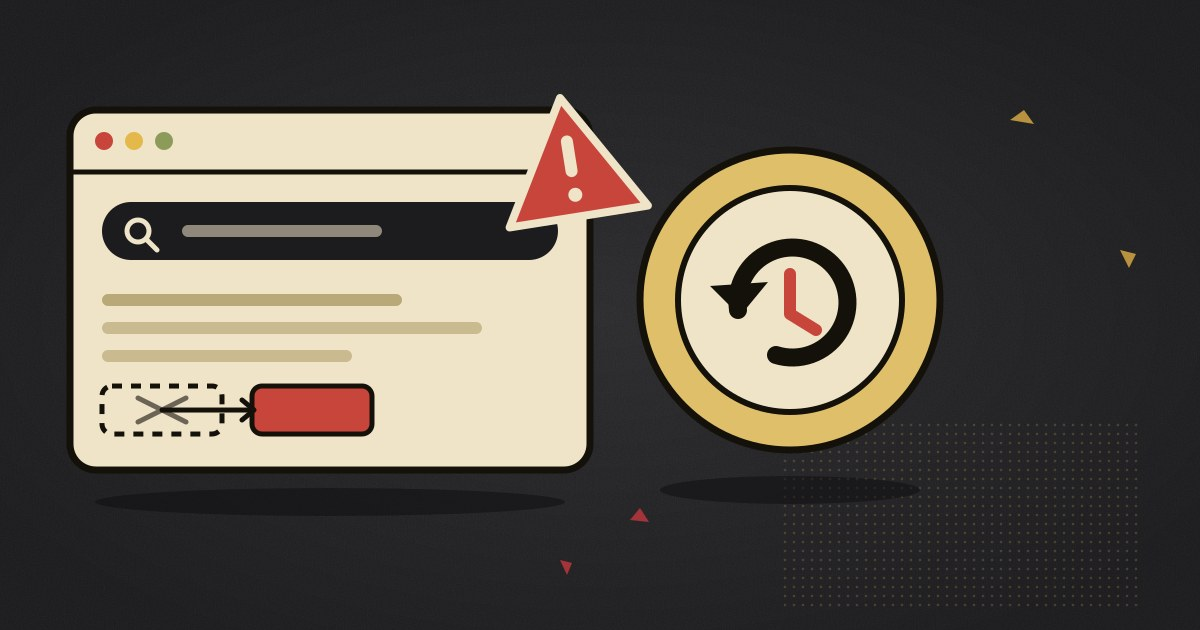
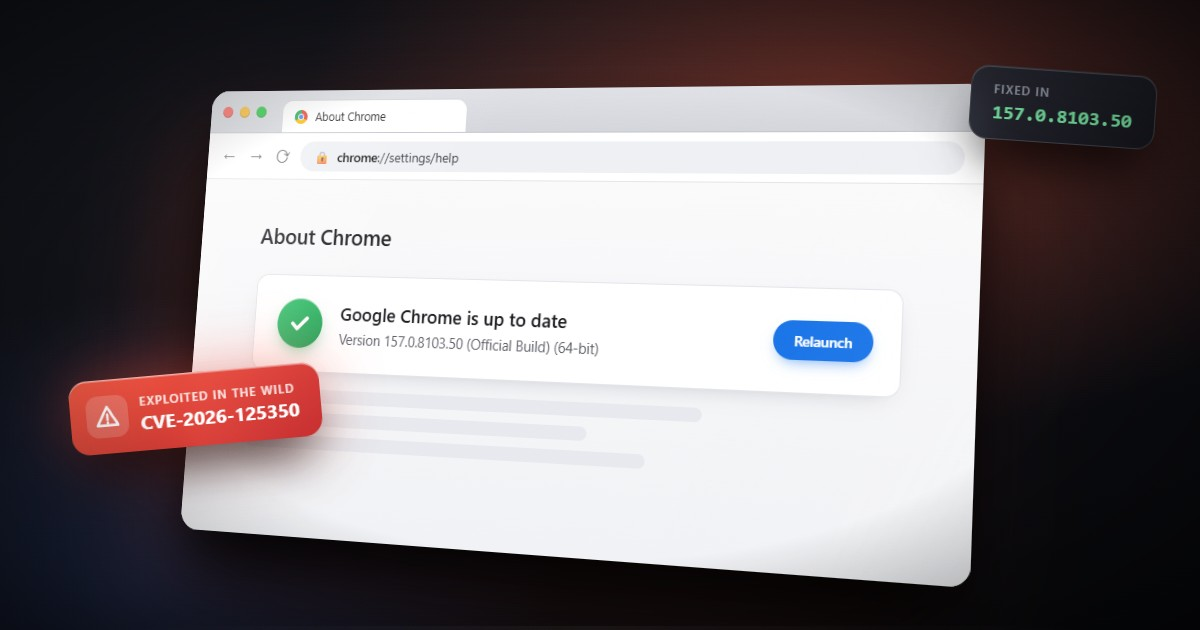
Blog: premium Load more button with progress, realistic thumbnail for the Chrome zero-day article

diff --git a/blog/index.html b/blog/index.html
@@ -11,7 +11,7 @@
 <meta property="og:type" content="website"><meta property="og:site_name" content="Rapid+ Blog">
 <meta property="og:title" content="Rapid+ Blog: Browser Privacy, Speed and How the Web Works"><meta property="og:description" content="Researched guides on proxies and VPNs, browser fingerprinting, user agents, profiles, ad blocking and security news from the team behind Rapid+ Browser.">
 <meta property="og:url" content="https://rapidplusbrowser.online/blog/"><meta property="og:image" content="https://rapidplusbrowser.online/assets/blog/chrome-zero-day-cve-2026-125350.jpg">
-<meta property="og:image:width" content="1200"><meta property="og:image:height" content="630"><meta property="og:image:alt" content="Illustration of a browser window with a broken memory link, a red warning triangle and a gold coin with a circular clock arrow on a dark background">
+<meta property="og:image:width" content="1200"><meta property="og:image:height" content="630"><meta property="og:image:alt" content="A browser window showing the About Chrome page at version 157.0.8103.50, with a red warning label for CVE-2026-125350 and a Fixed in label">
 <meta name="twitter:card" content="summary_large_image"><meta name="twitter:title" content="Rapid+ Blog: Browser Privacy, Speed and How the Web Works"><meta name="twitter:description" content="Researched guides on proxies and VPNs, browser fingerprinting, user agents, profiles, ad blocking and security news from the team behind Rapid+ Browser.">
 <meta name="robots" content="index, follow, max-image-preview:large">
 <script type="application/ld+json">{"@context":"https://schema.org","@type":"Blog","name":"Rapid+ Blog","url":"https://rapidplusbrowser.online/blog/","publisher":{"@type":"Organization","name":"HM Dev Studio","url":"https://rapidplusbrowser.online/","logo":{"@type":"ImageObject","url":"https://rapidplusbrowser.online/assets/logo.png"}},"blogPost":[{"@type":"BlogPosting","headline":"Chrome Patches Its Eighth Exploited Zero-Day of 2026: What to Do","url":"https://rapidplusbrowser.online/blog/chrome-zero-day-cve-2026-125350"},{"@type":"BlogPosting","headline":"Chrome Now Asks Before Opening Plain HTTP Sites: What Changed and What to Do","url":"https://rapidplusbrowser.online/blog/chrome-https-by-default"},{"@type":"BlogPosting","headline":"Chrome Extensions Hijacked Search for 13.4 Million Users: What Happened and How to Check Your Browser","url":"https://rapidplusbrowser.online/blog/chrome-extensions-search-hijacking"},{"@type":"BlogPosting","headline":"How Wars Cut the Internet: What Iran and Russia Show, and What Actually Helps","url":"https://rapidplusbrowser.online/blog/internet-shutdowns-in-war"},{"@type":"BlogPosting","headline":"The Binance Hack: What Happened, What Was Lost, and What It Means for You","url":"https://rapidplusbrowser.online/blog/binance-hack"},{"@type":"BlogPosting","headline":"Browser Fingerprinting: How Websites Recognize You Without Cookies","url":"https://rapidplusbrowser.online/blog/browser-fingerprinting"},{"@type":"BlogPosting","headline":"Do Ad Blockers Make Pages Load Faster? What the Measurements Show","url":"https://rapidplusbrowser.online/blog/ad-blocking-speed"},{"@type":"BlogPosting","headline":"Proxy vs VPN: What Each One Actually Hides","url":"https://rapidplusbrowser.online/blog/proxy-vs-vpn"},{"@type":"BlogPosting","headline":"Separate Browser Profiles for Work, Personal and Shopping: Why They Work","url":"https://rapidplusbrowser.online/blog/browser-profiles"},{"@type":"BlogPosting","headline":"What Is a User Agent String, and Why Do Websites Care?","url":"https://rapidplusbrowser.online/blog/user-agent-string"}]}</script>
@@ -63,9 +63,9 @@
 </div></section>
 <section class="bloglist"><div class="wrap homegrid">
   <div class="homemain">
-    <a class="feature-post" data-slug="chrome-zero-day-cve-2026-125350" href="/blog/chrome-zero-day-cve-2026-125350"><div class="thumb"><img src="/assets/blog/chrome-zero-day-cve-2026-125350.jpg" width="1200" height="630" alt="Illustration of a browser window with a broken memory link, a red warning triangle and a gold coin with a circular clock arrow on a dark background" fetchpriority="high"></div><div class="txt"><span class="chip">Security</span><h2>Chrome Patches Its Eighth Exploited Zero-Day of 2026: What to Do</h2><p>Google fixed an actively exploited bug in Chrome's XML component on 9 November. Here is what is known, what is not, and how to check that your browser has the fix.</p><div class="postmeta"><span>18 Nov 2026</span><span class="dot">·</span><span>9 min read</span></div></div></a>
+    <a class="feature-post" data-slug="chrome-zero-day-cve-2026-125350" href="/blog/chrome-zero-day-cve-2026-125350"><div class="thumb"><img src="/assets/blog/chrome-zero-day-cve-2026-125350.jpg" width="1200" height="630" alt="A browser window showing the About Chrome page at version 157.0.8103.50, with a red warning label for CVE-2026-125350 and a Fixed in label" fetchpriority="high"></div><div class="txt"><span class="chip">Security</span><h2>Chrome Patches Its Eighth Exploited Zero-Day of 2026: What to Do</h2><p>Google fixed an actively exploited bug in Chrome's XML component on 9 November. Here is what is known, what is not, and how to check that your browser has the fix.</p><div class="postmeta"><span>18 Nov 2026</span><span class="dot">·</span><span>9 min read</span></div></div></a>
     <h2 class="listh">More articles</h2>
-    <div class="plist" id="list"><div class="pitem" data-slug="chrome-https-by-default"><a class="pthumb" href="/blog/chrome-https-by-default" tabindex="-1" aria-hidden="true"><img src="/assets/blog/chrome-https-by-default.jpg" width="1200" height="630" alt="" loading="lazy"></a><div class="ptxt"><a class="chip" href="/blog/category/how-the-web-works">How the web works</a><h3><a href="/blog/chrome-https-by-default">Chrome Now Asks Before Opening Plain HTTP Sites: What Changed and What to Do</a></h3><p>Since Chrome 154, a public website without HTTPS triggers a warning before it loads. Here is what the new default covers, what it leaves out, and how it ties in with shorter certificate lifetimes.</p><div class="postmeta"><span>8 Nov 2026</span><span class="dot">·</span><span>11 min read</span></div></div></div><div class="pitem" data-slug="chrome-extensions-search-hijacking"><a class="pthumb" href="/blog/chrome-extensions-search-hijacking" tabindex="-1" aria-hidden="true"><img src="/assets/blog/chrome-extensions-search-hijacking.jpg" width="1200" height="630" alt="" loading="lazy"></a><div class="ptxt"><a class="chip" href="/blog/category/security">Security</a><h3><a href="/blog/chrome-extensions-search-hijacking">Chrome Extensions Hijacked Search for 13.4 Million Users: What Happened and How to Check Your Browser</a></h3><p>Security researchers found 319 extensions that quietly changed the default search engine and sent every query through the operator's servers. What is confirmed, what is not, and a two-minute check.</p><div class="postmeta"><span>5 Nov 2026</span><span class="dot">·</span><span>8 min read</span></div></div></div><div class="pitem" data-slug="internet-shutdowns-in-war"><a class="pthumb" href="/blog/internet-shutdowns-in-war" tabindex="-1" aria-hidden="true"><img src="/assets/blog/internet-shutdowns-in-war.jpg" width="1200" height="630" alt="" loading="lazy"></a><div class="ptxt"><a class="chip" href="/blog/category/privacy">Privacy</a><h3><a href="/blog/internet-shutdowns-in-war">How Wars Cut the Internet: What Iran and Russia Show, and What Actually Helps</a></h3><p>Iran spent 88 days almost fully offline and Russia switches off mobile internet region by region. Here is what happened, what a VPN can and cannot do, and what you can prepare.</p><div class="postmeta"><span>4 Nov 2026</span><span class="dot">·</span><span>11 min read</span></div></div></div><div class="pitem" data-slug="binance-hack"><a class="pthumb" href="/blog/binance-hack" tabindex="-1" aria-hidden="true"><img src="/assets/blog/binance-hack.jpg" width="1200" height="630" alt="" loading="lazy"></a><div class="ptxt"><a class="chip" href="/blog/category/security">Security</a><h3><a href="/blog/binance-hack">The Binance Hack: What Happened, What Was Lost, and What It Means for You</a></h3><p>Binance says about $6.3 billion was taken, the largest crypto theft on record. Here is what is confirmed, what is only reported, and what nobody knows yet.</p><div class="postmeta"><span>1 Nov 2026</span><span class="dot">·</span><span>14 min read</span></div></div></div><div class="pitem" data-slug="browser-fingerprinting"><a class="pthumb" href="/blog/browser-fingerprinting" tabindex="-1" aria-hidden="true"><img src="/assets/blog/browser-fingerprinting.jpg" width="1200" height="630" alt="" loading="lazy"></a><div class="ptxt"><a class="chip" href="/blog/category/privacy">Privacy</a><h3><a href="/blog/browser-fingerprinting">Browser Fingerprinting: How Websites Recognize You Without Cookies</a></h3><p>Nothing is stored on your device, so there is nothing to clear. Here is what fingerprinting measures, how well it works in practice, and what helps.</p><div class="postmeta"><span>30 Oct 2026</span><span class="dot">·</span><span>8 min read</span></div></div></div><div class="pitem" data-slug="ad-blocking-speed"><a class="pthumb" href="/blog/ad-blocking-speed" tabindex="-1" aria-hidden="true"><img src="/assets/blog/ad-blocking-speed.jpg" width="1200" height="630" alt="" loading="lazy"></a><div class="ptxt"><a class="chip" href="/blog/category/performance">Performance</a><h3><a href="/blog/ad-blocking-speed">Do Ad Blockers Make Pages Load Faster? What the Measurements Show</a></h3><p>Ads and trackers are a big share of what many pages download. What researchers measured, how blocking works, and what it costs.</p><div class="postmeta"><span>30 Oct 2026</span><span class="dot">·</span><span>8 min read</span></div></div></div><div class="pitem" data-slug="proxy-vs-vpn"><a class="pthumb" href="/blog/proxy-vs-vpn" tabindex="-1" aria-hidden="true"><img src="/assets/blog/proxy-vs-vpn.jpg" width="1200" height="630" alt="" loading="lazy"></a><div class="ptxt"><a class="chip" href="/blog/category/privacy">Privacy</a><h3><a href="/blog/proxy-vs-vpn">Proxy vs VPN: What Each One Actually Hides</a></h3><p>Both put another server between you and the web. They cover different traffic, protect it differently, and hide different things from different people.</p><div class="postmeta"><span>30 Oct 2026</span><span class="dot">·</span><span>10 min read</span></div></div></div><div class="pitem" data-slug="browser-profiles"><a class="pthumb" href="/blog/browser-profiles" tabindex="-1" aria-hidden="true"><img src="/assets/blog/browser-profiles.jpg" width="1200" height="630" alt="" loading="lazy"></a><div class="ptxt"><a class="chip" href="/blog/category/productivity">Productivity</a><h3><a href="/blog/browser-profiles">Separate Browser Profiles for Work, Personal and Shopping: Why They Work</a></h3><p>One browser, several separate lives. How profiles keep logins and cookies apart, what they do not protect, and how to set them up well.</p><div class="postmeta"><span>30 Oct 2026</span><span class="dot">·</span><span>8 min read</span></div></div></div><div class="pitem" data-slug="user-agent-string" hidden data-extra><a class="pthumb" href="/blog/user-agent-string" tabindex="-1" aria-hidden="true"><img src="/assets/blog/user-agent-string.jpg" width="1200" height="630" alt="" loading="lazy"></a><div class="ptxt"><a class="chip" href="/blog/category/how-the-web-works">How the web works</a><h3><a href="/blog/user-agent-string">What Is a User Agent String, and Why Do Websites Care?</a></h3><p>Your browser names five other browsers every time it loads a page. The reason is thirty years of browsers pretending to be each other.</p><div class="postmeta"><span>30 Oct 2026</span><span class="dot">·</span><span>8 min read</span></div></div></div></div><p class="more"><button type="button" class="sbtn loadmore" data-more>Load more articles</button></p>
+    <div class="plist" id="list"><div class="pitem" data-slug="chrome-https-by-default"><a class="pthumb" href="/blog/chrome-https-by-default" tabindex="-1" aria-hidden="true"><img src="/assets/blog/chrome-https-by-default.jpg" width="1200" height="630" alt="" loading="lazy"></a><div class="ptxt"><a class="chip" href="/blog/category/how-the-web-works">How the web works</a><h3><a href="/blog/chrome-https-by-default">Chrome Now Asks Before Opening Plain HTTP Sites: What Changed and What to Do</a></h3><p>Since Chrome 154, a public website without HTTPS triggers a warning before it loads. Here is what the new default covers, what it leaves out, and how it ties in with shorter certificate lifetimes.</p><div class="postmeta"><span>8 Nov 2026</span><span class="dot">·</span><span>11 min read</span></div></div></div><div class="pitem" data-slug="chrome-extensions-search-hijacking"><a class="pthumb" href="/blog/chrome-extensions-search-hijacking" tabindex="-1" aria-hidden="true"><img src="/assets/blog/chrome-extensions-search-hijacking.jpg" width="1200" height="630" alt="" loading="lazy"></a><div class="ptxt"><a class="chip" href="/blog/category/security">Security</a><h3><a href="/blog/chrome-extensions-search-hijacking">Chrome Extensions Hijacked Search for 13.4 Million Users: What Happened and How to Check Your Browser</a></h3><p>Security researchers found 319 extensions that quietly changed the default search engine and sent every query through the operator's servers. What is confirmed, what is not, and a two-minute check.</p><div class="postmeta"><span>5 Nov 2026</span><span class="dot">·</span><span>8 min read</span></div></div></div><div class="pitem" data-slug="internet-shutdowns-in-war"><a class="pthumb" href="/blog/internet-shutdowns-in-war" tabindex="-1" aria-hidden="true"><img src="/assets/blog/internet-shutdowns-in-war.jpg" width="1200" height="630" alt="" loading="lazy"></a><div class="ptxt"><a class="chip" href="/blog/category/privacy">Privacy</a><h3><a href="/blog/internet-shutdowns-in-war">How Wars Cut the Internet: What Iran and Russia Show, and What Actually Helps</a></h3><p>Iran spent 88 days almost fully offline and Russia switches off mobile internet region by region. Here is what happened, what a VPN can and cannot do, and what you can prepare.</p><div class="postmeta"><span>4 Nov 2026</span><span class="dot">·</span><span>11 min read</span></div></div></div><div class="pitem" data-slug="binance-hack"><a class="pthumb" href="/blog/binance-hack" tabindex="-1" aria-hidden="true"><img src="/assets/blog/binance-hack.jpg" width="1200" height="630" alt="" loading="lazy"></a><div class="ptxt"><a class="chip" href="/blog/category/security">Security</a><h3><a href="/blog/binance-hack">The Binance Hack: What Happened, What Was Lost, and What It Means for You</a></h3><p>Binance says about $6.3 billion was taken, the largest crypto theft on record. Here is what is confirmed, what is only reported, and what nobody knows yet.</p><div class="postmeta"><span>1 Nov 2026</span><span class="dot">·</span><span>14 min read</span></div></div></div><div class="pitem" data-slug="browser-fingerprinting"><a class="pthumb" href="/blog/browser-fingerprinting" tabindex="-1" aria-hidden="true"><img src="/assets/blog/browser-fingerprinting.jpg" width="1200" height="630" alt="" loading="lazy"></a><div class="ptxt"><a class="chip" href="/blog/category/privacy">Privacy</a><h3><a href="/blog/browser-fingerprinting">Browser Fingerprinting: How Websites Recognize You Without Cookies</a></h3><p>Nothing is stored on your device, so there is nothing to clear. Here is what fingerprinting measures, how well it works in practice, and what helps.</p><div class="postmeta"><span>30 Oct 2026</span><span class="dot">·</span><span>8 min read</span></div></div></div><div class="pitem" data-slug="ad-blocking-speed"><a class="pthumb" href="/blog/ad-blocking-speed" tabindex="-1" aria-hidden="true"><img src="/assets/blog/ad-blocking-speed.jpg" width="1200" height="630" alt="" loading="lazy"></a><div class="ptxt"><a class="chip" href="/blog/category/performance">Performance</a><h3><a href="/blog/ad-blocking-speed">Do Ad Blockers Make Pages Load Faster? What the Measurements Show</a></h3><p>Ads and trackers are a big share of what many pages download. What researchers measured, how blocking works, and what it costs.</p><div class="postmeta"><span>30 Oct 2026</span><span class="dot">·</span><span>8 min read</span></div></div></div><div class="pitem" data-slug="proxy-vs-vpn"><a class="pthumb" href="/blog/proxy-vs-vpn" tabindex="-1" aria-hidden="true"><img src="/assets/blog/proxy-vs-vpn.jpg" width="1200" height="630" alt="" loading="lazy"></a><div class="ptxt"><a class="chip" href="/blog/category/privacy">Privacy</a><h3><a href="/blog/proxy-vs-vpn">Proxy vs VPN: What Each One Actually Hides</a></h3><p>Both put another server between you and the web. They cover different traffic, protect it differently, and hide different things from different people.</p><div class="postmeta"><span>30 Oct 2026</span><span class="dot">·</span><span>10 min read</span></div></div></div><div class="pitem" data-slug="browser-profiles"><a class="pthumb" href="/blog/browser-profiles" tabindex="-1" aria-hidden="true"><img src="/assets/blog/browser-profiles.jpg" width="1200" height="630" alt="" loading="lazy"></a><div class="ptxt"><a class="chip" href="/blog/category/productivity">Productivity</a><h3><a href="/blog/browser-profiles">Separate Browser Profiles for Work, Personal and Shopping: Why They Work</a></h3><p>One browser, several separate lives. How profiles keep logins and cookies apart, what they do not protect, and how to set them up well.</p><div class="postmeta"><span>30 Oct 2026</span><span class="dot">·</span><span>8 min read</span></div></div></div><div class="pitem" data-slug="user-agent-string" hidden data-extra><a class="pthumb" href="/blog/user-agent-string" tabindex="-1" aria-hidden="true"><img src="/assets/blog/user-agent-string.jpg" width="1200" height="630" alt="" loading="lazy"></a><div class="ptxt"><a class="chip" href="/blog/category/how-the-web-works">How the web works</a><h3><a href="/blog/user-agent-string">What Is a User Agent String, and Why Do Websites Care?</a></h3><p>Your browser names five other browsers every time it loads a page. The reason is thirty years of browsers pretending to be each other.</p><div class="postmeta"><span>30 Oct 2026</span><span class="dot">·</span><span>8 min read</span></div></div></div></div><div class="more" data-total="9"><div class="more-bar" aria-hidden="true"><i style="width:89%"></i></div><p class="more-count" data-count>Showing 8 of 9 articles</p><button type="button" class="loadmore" data-more><span>Load more articles</span><svg viewBox="0 0 24 24" aria-hidden="true"><path d="M6 9l6 6 6-6"/></svg></button></div>
   </div>
   <aside class="side" aria-label="Sidebar">
   <form class="side-search" action="/blog/search" method="get" role="search"><input type="search" name="q" placeholder="Search articles…" aria-label="Search articles" autocomplete="off"><button type="submit" aria-label="Search"><svg viewBox="0 0 24 24" aria-hidden="true"><circle cx="11" cy="11" r="6.5"/><path d="m20 20-4.2-4.2"/></svg></button></form>

diff --git a/blog/chrome-zero-day-cve-2026-125350.html b/blog/chrome-zero-day-cve-2026-125350.html
@@ -11,7 +11,7 @@
 <meta property="og:type" content="article"><meta property="og:site_name" content="Rapid+ Blog">
 <meta property="og:title" content="Chrome Zero-Day Under Attack: What to Do | Rapid+ Blog"><meta property="og:description" content="Chrome 157.0.8103.50 fixes CVE-2026-125350, an exploited use-after-free bug. What was announced, what Google has not said, and how to update Chrome and others.">
 <meta property="og:url" content="https://rapidplusbrowser.online/blog/chrome-zero-day-cve-2026-125350"><meta property="og:image" content="https://rapidplusbrowser.online/assets/blog/chrome-zero-day-cve-2026-125350.jpg">
-<meta property="og:image:width" content="1200"><meta property="og:image:height" content="630"><meta property="og:image:alt" content="Illustration of a browser window with a broken memory link, a red warning triangle and a gold coin with a circular clock arrow on a dark background"><meta property="og:locale" content="en_US">
+<meta property="og:image:width" content="1200"><meta property="og:image:height" content="630"><meta property="og:image:alt" content="A browser window showing the About Chrome page at version 157.0.8103.50, with a red warning label for CVE-2026-125350 and a Fixed in label"><meta property="og:locale" content="en_US">
 <meta property="article:published_time" content="2026-11-18"><meta property="article:section" content="Security">
 <meta name="twitter:card" content="summary_large_image"><meta name="twitter:title" content="Chrome Zero-Day Under Attack: What to Do | Rapid+ Blog"><meta name="twitter:description" content="Chrome 157.0.8103.50 fixes CVE-2026-125350, an exploited use-after-free bug. What was announced, what Google has not said, and how to update Chrome and others."><meta name="twitter:image" content="https://rapidplusbrowser.online/assets/blog/chrome-zero-day-cve-2026-125350.jpg">
 <meta name="robots" content="index, follow, max-image-preview:large">
@@ -66,7 +66,7 @@
   <p class="dek">Google fixed an actively exploited bug in Chrome's XML component on 9 November. Here is what is known, what is not, and how to check that your browser has the fix.</p>
   <div class="byline"><img src="/assets/logo.png" alt=""><div><span><b>Rapid+ Team</b> · 18 Nov 2026 · 9 min read</span></div></div>
 </header>
-<figure class="post-hero"><img src="/assets/blog/chrome-zero-day-cve-2026-125350.jpg" width="1200" height="630" alt="Illustration of a browser window with a broken memory link, a red warning triangle and a gold coin with a circular clock arrow on a dark background" fetchpriority="high"></figure>
+<figure class="post-hero"><img src="/assets/blog/chrome-zero-day-cve-2026-125350.jpg" width="1200" height="630" alt="A browser window showing the About Chrome page at version 157.0.8103.50, with a red warning label for CVE-2026-125350 and a Fixed in label" fetchpriority="high"></figure>
 <div class="post-layout">
   <nav class="post-toc" aria-label="On this page"><h4>On this page</h4><a href="#short-version">The short version</a><a href="#what-was-announced">What was announced</a><a href="#zero-day">What "zero-day" means here</a><a href="#use-after-free">What a use-after-free is</a><a href="#withheld">Why so little detail</a><a href="#check">How to check and update</a><a href="#other-programs">Other programs that contain Chrome's engine</a><a href="#takeaways">What to do today</a><a href="#faq">FAQ</a><a href="#sources">Sources</a></nav>
   <div class="prose">

diff --git a/tools/build-blog.js b/tools/build-blog.js
@@ -129,7 +129,7 @@ const meta = p => `<div class="postmeta"><span>${esc(p.date)}</span><span class=
 const featured = p => `<a class="feature-post" data-slug="${p.slug}" href="/blog/${p.slug}"><div class="thumb"><img src="/assets/blog/${p.slug}.jpg" width="1200" height="630" alt="${p.alt}" fetchpriority="high"></div><div class="txt"><span class="chip">${esc(p.cat)}</span><h2>${esc(p.title)}</h2><p>${esc(p.desc)}</p>${meta(p)}</div></a>`;
 const item = (p, hidden) => `<div class="pitem" data-slug="${p.slug}"${hidden ? ' hidden data-extra' : ''}><a class="pthumb" href="/blog/${p.slug}" tabindex="-1" aria-hidden="true"><img src="/assets/blog/${p.slug}.jpg" width="1200" height="630" alt="" loading="lazy"></a><div class="ptxt"><a class="chip" href="/blog/category/${p.cs}">${esc(p.cat)}</a><h3><a href="/blog/${p.slug}">${esc(p.title)}</a></h3><p>${esc(p.desc)}</p>${meta(p)}</div></div>`;
 const PAGE = 8;
-const list = items => `<div class="plist" id="list">${items.map((p, i) => item(p, i >= PAGE)).join('')}</div>${items.length > PAGE ? '<p class="more"><button type="button" class="sbtn loadmore" data-more>Load more articles</button></p>' : ''}`;
+const list = items => `<div class="plist" id="list">${items.map((p, i) => item(p, i >= PAGE)).join('')}</div>${items.length > PAGE ? `<div class="more" data-total="${items.length}"><div class="more-bar" aria-hidden="true"><i style="width:${Math.round(PAGE / items.length * 100)}%"></i></div><p class="more-count" data-count>Showing ${PAGE} of ${items.length} articles</p><button type="button" class="loadmore" data-more><span>Load more articles</span><svg viewBox="0 0 24 24" aria-hidden="true"><path d="M6 9l6 6 6-6"/></svg></button></div>` : ''}`;
 const side = current => `<aside class="side" aria-label="Sidebar">
   <form class="side-search" action="/blog/search" method="get" role="search"><input type="search" name="q" placeholder="Search articles…" aria-label="Search articles" autocomplete="off"><button type="submit" aria-label="Search">${I_SEARCH}</button></form>
   <section class="side-card"><h3>Categories</h3><ul class="side-cats">${usedCats.map(([l, s]) => `<li><a href="/blog/category/${s}"${current === s ? ' class="on"' : ''}>${l}<i>${count(s)}</i></a></li>`).join('')}</ul></section>

diff --git a/blog.css b/blog.css
@@ -330,7 +330,17 @@ body.noscroll{overflow:hidden}
 .ptxt h3 a:hover{color:var(--accent);text-decoration:none}
 .ptxt p{margin:0 0 10px;color:var(--muted);font-size:15px;line-height:1.55;overflow-wrap:anywhere}
 .ptxt mark,.bsearch-res mark{background:color-mix(in srgb,var(--accent) 24%,transparent);color:inherit;border-radius:3px;padding:0 1px}
-.more{text-align:center;margin:22px 0 0}
+.more{display:flex;flex-direction:column;align-items:center;gap:14px;margin:26px 0 8px}
+.more-bar{width:min(240px,70%);height:4px;border-radius:99px;background:var(--bg2);overflow:hidden;box-shadow:inset 0 0 0 1px var(--line)}
+.more-bar i{display:block;height:100%;border-radius:99px;background:linear-gradient(90deg,var(--accent2),var(--accent));transition:width .45s cubic-bezier(.2,.7,.2,1)}
+.more-count{margin:0;font-size:13px;font-weight:600;letter-spacing:.2px;color:var(--muted)}
+.loadmore{display:inline-flex;align-items:center;justify-content:center;gap:10px;min-width:230px;padding:15px 30px;border-radius:999px;border:1px solid var(--line);background:linear-gradient(180deg,var(--card),var(--bg2));color:var(--text);font:inherit;font-size:15px;font-weight:700;letter-spacing:.1px;cursor:pointer;box-shadow:0 1px 2px rgba(20,18,12,.06),0 14px 28px -14px rgba(20,18,12,.28);transition:transform .2s ease,box-shadow .2s ease,border-color .2s ease,color .2s ease,background .2s ease}
+.loadmore svg{width:18px;height:18px;fill:none;stroke:currentColor;stroke-width:2.4;stroke-linecap:round;stroke-linejoin:round;transition:transform .25s ease}
+.loadmore:hover{transform:translateY(-2px);border-color:color-mix(in srgb,var(--accent) 55%,var(--line));color:var(--accent);box-shadow:0 1px 2px rgba(20,18,12,.06),0 20px 34px -14px rgba(255,107,0,.38)}
+.loadmore:hover svg{transform:translateY(2px)}
+.loadmore:active{transform:translateY(0) scale(.98)}
+.loadmore:focus-visible{outline:2px solid var(--accent);outline-offset:3px}
+@media(prefers-reduced-motion:reduce){.loadmore,.loadmore svg,.more-bar i{transition:none}}
 @media(max-width:620px){.pitem{grid-template-columns:minmax(0,1fr);gap:12px;padding:18px 0}.ptxt h3{font-size:19px}}
 
 .side{display:flex;flex-direction:column;gap:18px;min-width:0}

diff --git a/blog/category/security.html b/blog/category/security.html
@@ -11,7 +11,7 @@
 <meta property="og:type" content="website"><meta property="og:site_name" content="Rapid+ Blog">
 <meta property="og:title" content="Security Articles | Rapid+ Blog"><meta property="og:description" content="News and explainers on breaches, scams and how to stay safe online. 3 articles from the Rapid+ Blog.">
 <meta property="og:url" content="https://rapidplusbrowser.online/blog/category/security"><meta property="og:image" content="https://rapidplusbrowser.online/assets/blog/chrome-zero-day-cve-2026-125350.jpg">
-<meta property="og:image:width" content="1200"><meta property="og:image:height" content="630"><meta property="og:image:alt" content="Illustration of a browser window with a broken memory link, a red warning triangle and a gold coin with a circular clock arrow on a dark background">
+<meta property="og:image:width" content="1200"><meta property="og:image:height" content="630"><meta property="og:image:alt" content="A browser window showing the About Chrome page at version 157.0.8103.50, with a red warning label for CVE-2026-125350 and a Fixed in label">
 <meta name="twitter:card" content="summary_large_image"><meta name="twitter:title" content="Security Articles | Rapid+ Blog"><meta name="twitter:description" content="News and explainers on breaches, scams and how to stay safe online. 3 articles from the Rapid+ Blog.">
 <meta name="robots" content="index, follow, max-image-preview:large">
 <script type="application/ld+json">{"@context":"https://schema.org","@type":"BreadcrumbList","itemListElement":[{"@type":"ListItem","position":1,"name":"Home","item":"https://rapidplusbrowser.online/"},{"@type":"ListItem","position":2,"name":"Blog","item":"https://rapidplusbrowser.online/blog/"},{"@type":"ListItem","position":3,"name":"Security","item":"https://rapidplusbrowser.online/blog/category/security"}]}</script>

diff --git a/blog/rss.html b/blog/rss.html
@@ -11,7 +11,7 @@
 <meta property="og:type" content="website"><meta property="og:site_name" content="Rapid+ Blog">
 <meta property="og:title" content="RSS Feed | Rapid+ Blog"><meta property="og:description" content="Follow Rapid+ Blog in your news reader with the RSS feed.">
 <meta property="og:url" content="https://rapidplusbrowser.online/blog/rss"><meta property="og:image" content="https://rapidplusbrowser.online/assets/blog/chrome-zero-day-cve-2026-125350.jpg">
-<meta property="og:image:width" content="1200"><meta property="og:image:height" content="630"><meta property="og:image:alt" content="Illustration of a browser window with a broken memory link, a red warning triangle and a gold coin with a circular clock arrow on a dark background">
+<meta property="og:image:width" content="1200"><meta property="og:image:height" content="630"><meta property="og:image:alt" content="A browser window showing the About Chrome page at version 157.0.8103.50, with a red warning label for CVE-2026-125350 and a Fixed in label">
 <meta name="twitter:card" content="summary_large_image"><meta name="twitter:title" content="RSS Feed | Rapid+ Blog"><meta name="twitter:description" content="Follow Rapid+ Blog in your news reader with the RSS feed.">
 <meta name="robots" content="index, follow, max-image-preview:large">
 

diff --git a/blog/search.html b/blog/search.html
@@ -11,7 +11,7 @@
 <meta property="og:type" content="website"><meta property="og:site_name" content="Rapid+ Blog">
 <meta property="og:title" content="Search | Rapid+ Blog"><meta property="og:description" content="Search every Rapid+ Blog article by title and full text.">
 <meta property="og:url" content="https://rapidplusbrowser.online/blog/search"><meta property="og:image" content="https://rapidplusbrowser.online/assets/blog/chrome-zero-day-cve-2026-125350.jpg">
-<meta property="og:image:width" content="1200"><meta property="og:image:height" content="630"><meta property="og:image:alt" content="Illustration of a browser window with a broken memory link, a red warning triangle and a gold coin with a circular clock arrow on a dark background">
+<meta property="og:image:width" content="1200"><meta property="og:image:height" content="630"><meta property="og:image:alt" content="A browser window showing the About Chrome page at version 157.0.8103.50, with a red warning label for CVE-2026-125350 and a Fixed in label">
 <meta name="twitter:card" content="summary_large_image"><meta name="twitter:title" content="Search | Rapid+ Blog"><meta name="twitter:description" content="Search every Rapid+ Blog article by title and full text.">
 <meta name="robots" content="noindex, follow">
 

diff --git a/blog.js b/blog.js
@@ -263,7 +263,11 @@ async function initListing() {
   if (more) more.addEventListener("click", () => {
     const hid = [...document.querySelectorAll("#list [data-extra][hidden]")];
     hid.slice(0, 8).forEach(e => { e.hidden = false; });
-    if (hid.length <= 8) more.parentElement.remove();
+    const box = more.parentElement, total = +box.dataset.total || 0, left = hid.length - 8;
+    if (left <= 0) { box.remove(); return; }
+    const shown = total - left, bar = box.querySelector(".more-bar i"), cnt = box.querySelector("[data-count]");
+    if (bar && total) bar.style.width = Math.round(shown / total * 100) + "%";
+    if (cnt) cnt.textContent = "Showing " + shown + " of " + total + " articles";
   });
   const counts = await loadCounts();
   const viewsText = v => `${nf(v)} ${v === 1 ? "view" : "views"}`;
